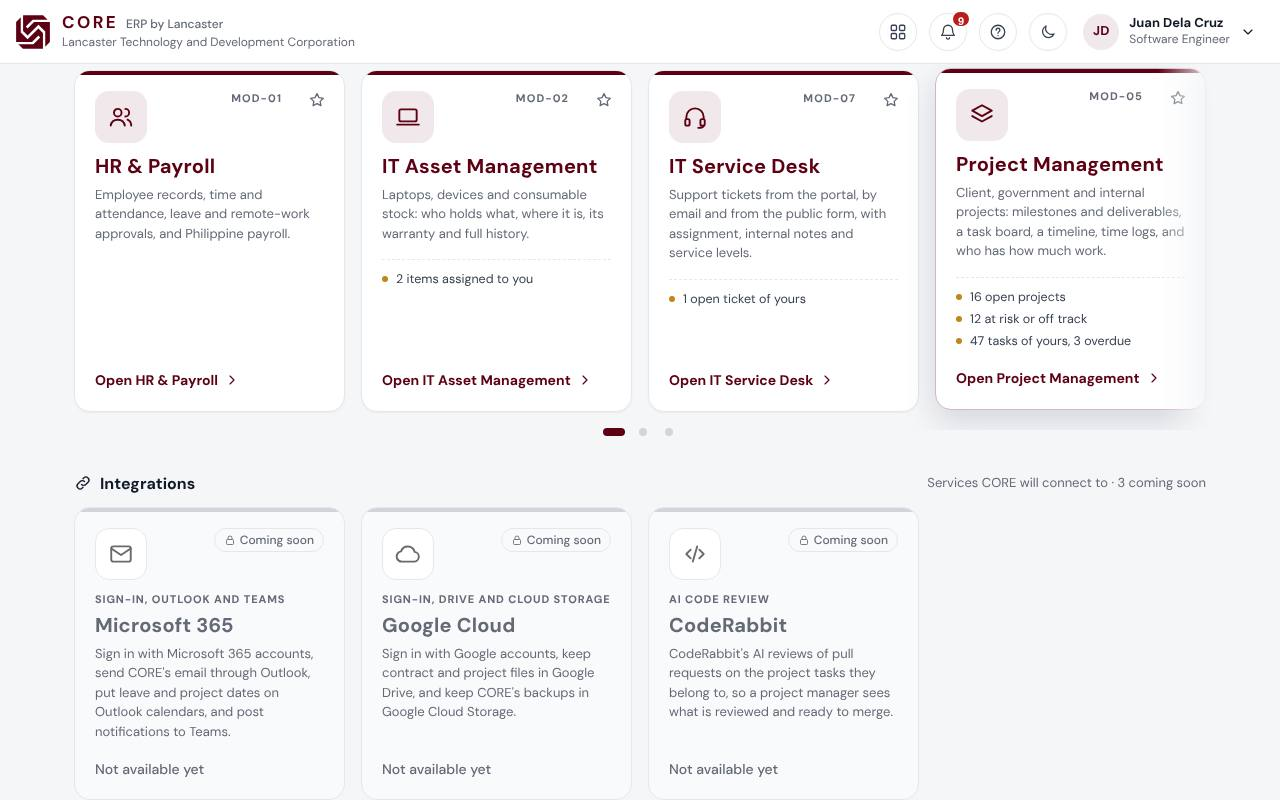
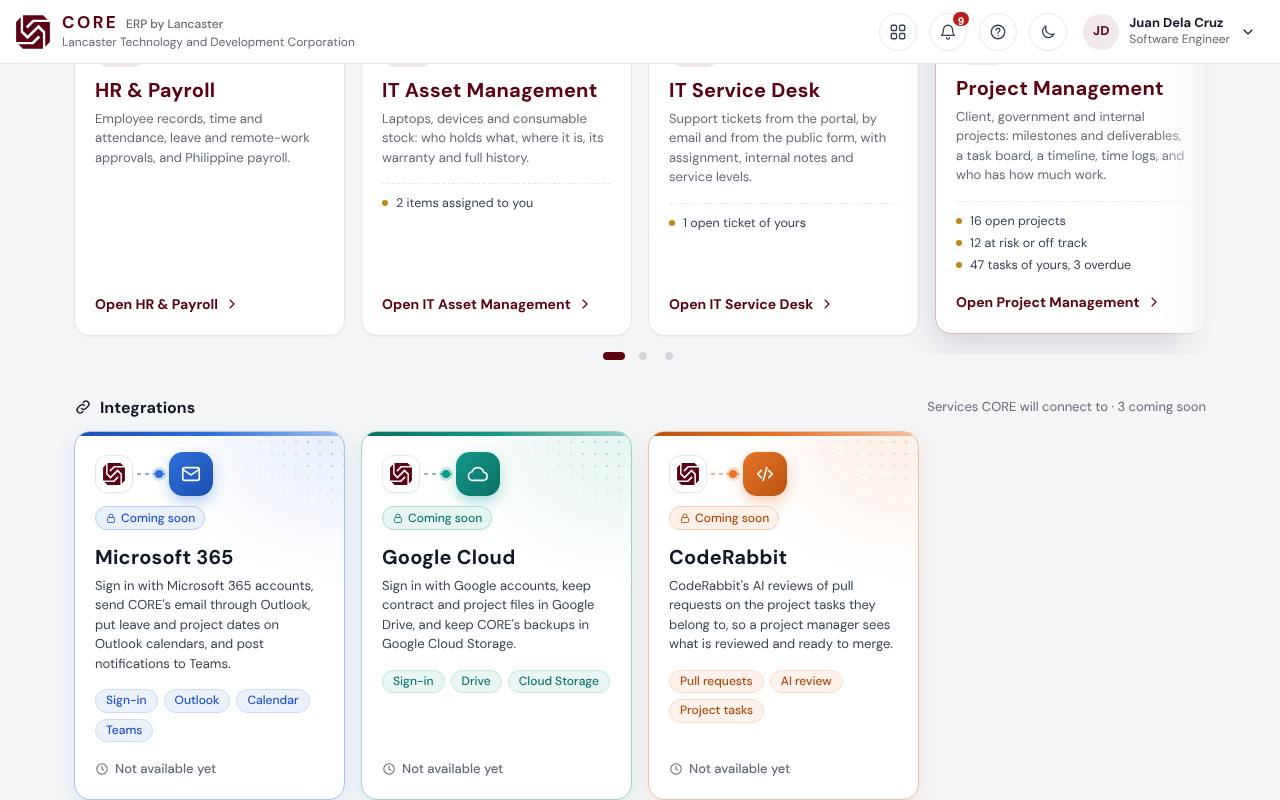
0.50.0-alpha: a design for the integration cards
- Each integration card in its own colour (Microsoft 365 blue, Google
  Cloud teal, CodeRabbit orange): coloured top edge, soft glow, a field
  of dots, a gradient icon tile.
- At the top, CORE's mark linked to the service's icon by a dashed wire
  with a dot travelling along it (still when reduced motion is on);
  chips for what each will bring. Compact tiles keep the colour.
  Light and dark.
- Getting started guide line and screenshots, what's new, dev log, test.

Claude-Session: https://claude.ai/code/session_01JQ4oxiUA7CnD1ir2UC84uB

diff --git a/public/css/styles.css b/public/css/styles.css
@@ -3402,3 +3402,44 @@ a.hub-role:hover { background: rgba(255, 255, 255, 0.26); }
 .int-grid { display: grid; grid-template-columns: repeat(auto-fill, minmax(min(260px, 100%), 1fr)); gap: 16px; }
 .int-grid .sys-card { min-height: 0; }
 .sys-section.compact .int-grid { display: none; }
+
+/* Integration cards (0.50): each in its own colour, with the link to come drawn at the top (CORE's
+   mark, a dashed wire with a dot travelling along it, the service's icon) and chips for what it
+   will bring. --int is the colour, --int-deep its darker end, --int-text the readable text. */
+.int-blue { --int: #2f6fdb; --int-deep: #1d4fb0; --int-text: #1d4ed8; }
+.int-teal { --int: #13998a; --int-deep: #0b6f64; --int-text: #0f766e; }
+.int-orange { --int: #e8742a; --int-deep: #b9520f; --int-text: #b4480b; }
+:root[data-theme='dark'] .int-blue { --int-text: #93c5fd; }
+:root[data-theme='dark'] .int-teal { --int-text: #5eead4; }
+:root[data-theme='dark'] .int-orange { --int-text: #fdba74; }
+.sys-card.int-card { cursor: default; border-color: color-mix(in srgb, var(--int) 32%, var(--border)); box-shadow: 0 6px 18px color-mix(in srgb, var(--int) 12%, transparent);
+  background: radial-gradient(120% 70% at 100% 0%, color-mix(in srgb, var(--int) 11%, transparent), transparent 60%), var(--surface); }
+/* A field of small dots in the top corner, fading out. */
+.sys-card.int-card::after { content: ''; position: absolute; top: 4px; right: 0; width: 150px; height: 110px; pointer-events: none;
+  background: radial-gradient(circle, color-mix(in srgb, var(--int) 30%, transparent) 1.2px, transparent 1.6px) 0 0 / 12px 12px;
+  -webkit-mask-image: radial-gradient(110% 100% at 100% 0%, #000 20%, transparent 70%); mask-image: radial-gradient(110% 100% at 100% 0%, #000 20%, transparent 70%); }
+.sys-card.int-card > * { position: relative; z-index: 1; }
+.sys-card.int-card::before { height: 4px; background: linear-gradient(90deg, var(--int-deep), var(--int), color-mix(in srgb, var(--int) 45%, var(--surface))); }
+.int-card .sys-top { align-items: center; flex-wrap: wrap; gap: 10px; margin-bottom: 10px; }
+.int-link { display: inline-flex; align-items: center; }
+.int-core { width: 38px; height: 38px; border-radius: 12px; display: grid; place-items: center; background: var(--surface); border: 1px solid var(--border); box-shadow: var(--shadow); }
+.int-core img { width: 22px; height: 22px; }
+.int-core .on-dark, :root[data-theme='dark'] .int-core .on-light { display: none; }
+:root[data-theme='dark'] .int-core .on-dark { display: block; }
+.int-wire { position: relative; width: 28px; height: 2px; margin: 0 4px; background: repeating-linear-gradient(90deg, color-mix(in srgb, var(--int) 55%, transparent) 0 4px, transparent 4px 8px); }
+.int-dot { position: absolute; top: -3px; left: 0; width: 8px; height: 8px; border-radius: 50%; background: var(--int); box-shadow: 0 0 0 3px color-mix(in srgb, var(--int) 22%, transparent); animation: int-flow 2.6s ease-in-out infinite; }
+@keyframes int-flow { 0% { left: 0; opacity: 0; } 15% { opacity: 1; } 85% { opacity: 1; } 100% { left: calc(100% - 8px); opacity: 0; } }
+.sys-card.int-card .sys-ic { width: 44px; height: 44px; border-radius: 14px; background: linear-gradient(135deg, var(--int), var(--int-deep)); color: #fff; border: 0; filter: none; box-shadow: 0 6px 14px color-mix(in srgb, var(--int) 32%, transparent); }
+.int-card .int-badge { background: color-mix(in srgb, var(--int) 10%, var(--surface)); color: var(--int-text); border-color: color-mix(in srgb, var(--int) 35%, var(--surface)); }
+.sys-card.int-card .sys-name { color: var(--text); }
+.sys-card.int-card p { color: var(--text-2); }
+.int-feats { list-style: none; margin: 10px 0 0; padding: 0; display: flex; flex-wrap: wrap; gap: 6px; }
+.int-feats li { padding: 2px 10px; border-radius: 999px; font-size: 12px; font-weight: 600; color: var(--int-text); background: color-mix(in srgb, var(--int) 9%, var(--surface)); border: 1px solid color-mix(in srgb, var(--int) 25%, var(--surface)); }
+.sys-card.int-card .sys-open { color: var(--muted); font-size: 13px; }
+/* The compact tiles keep the colour: its bar on the left and the icon. */
+.sys-mini.int-mini { background: linear-gradient(120deg, color-mix(in srgb, var(--int) 8%, var(--surface)), var(--surface) 70%); border-color: color-mix(in srgb, var(--int) 28%, var(--border)); }
+.sys-mini.int-mini::before { background: linear-gradient(180deg, var(--int), var(--int-deep)); width: 4px; }
+.sys-mini.int-mini .sys-ic { background: linear-gradient(135deg, var(--int), var(--int-deep)); color: #fff; border: 0; }
+.sys-mini.int-mini strong { color: var(--text); }
+.sys-mini.int-mini small { color: var(--int-text); }
+@media (prefers-reduced-motion: reduce) { .int-dot { animation: none; left: calc(50% - 4px); } }

diff --git a/public/js/views/launcher.js b/public/js/views/launcher.js
@@ -140,13 +140,17 @@ export async function launcherView(el) {
   const compactItems = () => html`${ordered().map(mini)}${soon.map(mini)}`;
   // Integrations (0.49): the services CORE will connect to, under Your modules, as cards (or tiles
   // in the compact view) coming soon, like the modules on the roadmap. Nothing to open yet.
-  const intCard = (i) => html`<div class="sys-card soon int-card" data-integration="${i.id}" aria-disabled="true" title="${i.name} is coming soon">
-      <span class="sys-top"><span class="sys-ic">${icon(i.glyph, 26)}</span><span class="badge gray">${icon('lock', 12)} Coming soon</span></span><span class="sys-tagline">${i.tagline}</span>
+  // Each card has its colour (0.50) and shows the link to come: CORE's mark, a dashed wire with a
+  // dot travelling along it, and the service's icon; then what it will bring, as chips (which say
+  // what the tag line says on the compact tile).
+  const intCard = (i) => html`<div class="sys-card soon int-card int-${i.accent}" data-integration="${i.id}" aria-disabled="true" title="${i.name} is coming soon">
+      <span class="sys-top"><span class="int-link" aria-hidden="true"><span class="int-core"><img class="on-light" src="/img/core-mark-brand.svg" alt="" /><img class="on-dark" src="/img/core-mark.svg" alt="" /></span><span class="int-wire"><span class="int-dot"></span></span><span class="sys-ic">${icon(i.glyph, 22)}</span></span><span class="badge int-badge">${icon('lock', 12)} Coming soon</span></span>
       <strong class="sys-name" style="font-size:20px">${i.name}</strong>
       <p>${i.description}</p>
-      <span class="sys-open">Not available yet</span>
+      <ul class="int-feats" aria-label="What it will bring">${i.features.map((f) => html`<li>${f}</li>`)}</ul>
+      <span class="sys-open">${icon('clock', 14)} Not available yet</span>
     </div>`;
-  const intMini = (i) => html`<div class="sys-mini soon" data-integration="${i.id}" aria-disabled="true" title="${i.name}: coming soon"><span class="sys-ic">${icon(i.glyph, 20)}</span><span class="grow"><strong>${i.name}</strong><small>${icon('lock', 11)} Coming soon</small></span></div>`;
+  const intMini = (i) => html`<div class="sys-mini soon int-mini int-${i.accent}" data-integration="${i.id}" aria-disabled="true" title="${i.name}: coming soon"><span class="sys-ic">${icon(i.glyph, 20)}</span><span class="grow"><strong>${i.name}</strong><small>${icon('lock', 11)} Coming soon</small></span></div>`;
   // Cards (the sliding row) or Compact (all at once): kept in this browser, like the theme. Until
   // someone chooses, a phone starts in Compact (0.47) and a larger screen in Cards.
   const VIEW_KEY = 'core-home-view';

diff --git a/shared/modules.js b/shared/modules.js
@@ -25,13 +25,14 @@ export const MODULES = [
 ];
 
 // Integrations: other services CORE will connect to, shown under Your modules on the CORE home
-// (0.49). All are on the roadmap; none can be turned on yet. `glyph` names an icon in icons.js.
+// (0.49). All are on the roadmap; none can be turned on yet. `glyph` names an icon in icons.js;
+// `accent` colours its card (0.50); `features` are the chips on it.
 export const INTEGRATIONS = [
-  { id: 'microsoft365', code: 'INT-01', name: 'Microsoft 365', glyph: 'mail', status: 'soon', tagline: 'Sign-in, Outlook and Teams',
+  { id: 'microsoft365', code: 'INT-01', name: 'Microsoft 365', glyph: 'mail', status: 'soon', accent: 'blue', features: ['Sign-in', 'Outlook', 'Calendar', 'Teams'], tagline: 'Sign-in, Outlook and Teams',
     description: 'Sign in with Microsoft 365 accounts, send CORE\'s email through Outlook, put leave and project dates on Outlook calendars, and post notifications to Teams.' },
-  { id: 'googlecloud', code: 'INT-02', name: 'Google Cloud', glyph: 'cloud', status: 'soon', tagline: 'Sign-in, Drive and Cloud Storage',
+  { id: 'googlecloud', code: 'INT-02', name: 'Google Cloud', glyph: 'cloud', status: 'soon', accent: 'teal', features: ['Sign-in', 'Drive', 'Cloud Storage'], tagline: 'Sign-in, Drive and Cloud Storage',
     description: 'Sign in with Google accounts, keep contract and project files in Google Drive, and keep CORE\'s backups in Google Cloud Storage.' },
-  { id: 'coderabbit', code: 'INT-03', name: 'CodeRabbit', glyph: 'code', status: 'soon', tagline: 'AI code review',
+  { id: 'coderabbit', code: 'INT-03', name: 'CodeRabbit', glyph: 'code', status: 'soon', accent: 'orange', features: ['Pull requests', 'AI review', 'Project tasks'], tagline: 'AI code review',
     description: 'CodeRabbit\'s AI reviews of pull requests on the project tasks they belong to, so a project manager sees what is reviewed and ready to merge.' },
 ];
 

diff --git a/test/integrations.test.js b/test/integrations.test.js
@@ -8,6 +8,15 @@ import { INTEGRATIONS, MODULES, PINNABLE, SWITCHABLE } from '../shared/modules.j
 test('the integrations are Microsoft 365, Google Cloud and CodeRabbit, all coming soon', () => {
   assert.deepEqual(INTEGRATIONS.map((i) => i.name), ['Microsoft 365', 'Google Cloud', 'CodeRabbit']);
   assert.ok(INTEGRATIONS.every((i) => i.status === 'soon' && i.description && i.tagline && i.glyph));
+  // Each has its colour and the chips on its card (0.50).
+  assert.deepEqual(INTEGRATIONS.map((i) => i.accent), ['blue', 'teal', 'orange']);
+  assert.ok(INTEGRATIONS.every((i) => Array.isArray(i.features) && i.features.length >= 2));
+  const css = fs.readFileSync(new URL('../public/css/styles.css', import.meta.url), 'utf8');
+  for (const i of INTEGRATIONS) {
+    assert.match(css, new RegExp(`\\.int-${i.accent} \\{ --int:`), `colour for ${i.accent}`);
+    assert.match(css, new RegExp(`:root\\[data-theme='dark'\\] \\.int-${i.accent} \\{ --int-text:`), `dark text colour for ${i.accent}`);
+  }
+  assert.match(css, /prefers-reduced-motion: reduce\) \{ \.int-dot \{ animation: none/, 'the moving dot stops when motion is reduced');
   assert.equal(new Set(INTEGRATIONS.map((i) => i.code)).size, INTEGRATIONS.length, 'codes are unique');
   for (const i of INTEGRATIONS) {
     assert.ok(!MODULES.some((m) => m.id === i.id), `${i.id} is not a module`);

diff --git a/shared/devlog.js b/shared/devlog.js
@@ -28,6 +28,16 @@ export const CHANGE_TYPES = { new: 'Added', improved: 'Changed', fixed: 'Fixed' 
 
 export const DEVLOG = [
   {
+    version: '0.50.0-alpha',
+    date: '2026-11-21',
+    title: 'A design for the integration cards',
+    modules: ['system'],
+    notes: 'Each integration card now has its own colour and shows the connection to come.',
+    changes: [
+      ['improved', 'system', 'CORE home, Integrations: each card in its own colour (Microsoft 365 blue, Google Cloud teal, CodeRabbit orange) with a coloured top edge, a soft glow and a field of dots; at the top, CORE\'s mark linked to the service\'s icon by a dashed wire with a dot travelling along it (still when reduced motion is on); chips for what it will bring. The compact tiles keep the colour. Light and dark.'],
+    ],
+  },
+  {
     version: '0.49.0-alpha',
     date: '2026-11-21',
     title: 'Integrations on the CORE home',

diff --git a/docs/guides/getting-started.md b/docs/guides/getting-started.md
@@ -44,7 +44,7 @@ To see every module at once, choose **Compact** beside **Your modules**: the mod
 
 ![The CORE home in the compact view](getting-started-compact.jpg)
 
-Under your modules, **Integrations** lists the services CORE will connect to, all marked **Coming soon**: **Microsoft 365** (sign-in, Outlook and Teams), **Google Cloud** (sign-in, Google Drive and Cloud Storage) and **CodeRabbit** (AI code review on project tasks). They are on the roadmap and cannot be opened or turned on yet. They follow the same **Cards | Compact** choice as your modules.
+Under your modules, **Integrations** lists the services CORE will connect to, all marked **Coming soon**: **Microsoft 365** (sign-in, Outlook and Teams), **Google Cloud** (sign-in, Google Drive and Cloud Storage) and **CodeRabbit** (AI code review on project tasks). Each card shows CORE's mark linked to the service, in the service's own colour, with what it will bring under the description. They are on the roadmap and cannot be opened or turned on yet. They follow the same **Cards | Compact** choice as your modules.
 
 ![Integrations on the CORE home, coming soon](getting-started-integrations.jpg)
 

diff --git a/docs/guides/whats-new.md b/docs/guides/whats-new.md
@@ -9,6 +9,9 @@ order: 2
 
 ## November 2026
 
+### Integration cards with a design (0.50)
+- The **Integrations** cards on the CORE home each have their own colour, show CORE's mark linked to the service, and list what each will bring. See [Getting started](getting-started#walkthrough).
+
 ### Integrations on the CORE home (0.49)
 - Under **Your modules**, a new **Integrations** area shows the services CORE will connect to, all coming soon: **Microsoft 365**, **Google Cloud** and **CodeRabbit**. See [Getting started](getting-started#walkthrough).
 
